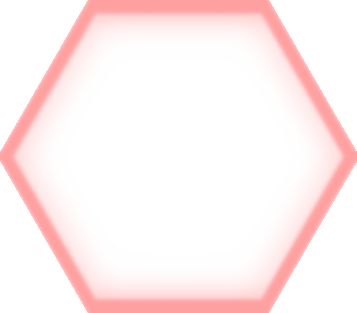
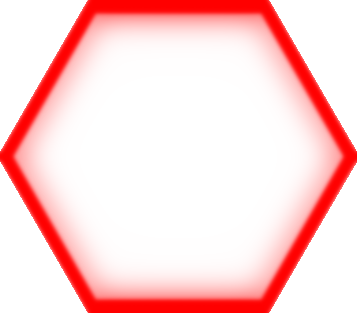
Enemy unit selection improvements.

Changed region(s): [[0.0, 0.0, 1.0, 1.0]]

diff --git a/source/js/handle_input.js b/source/js/handle_input.js
@@ -8,13 +8,41 @@ function handleClick(event) {
         if(event.button == 0){
             
             if(u && u.id){
-                selectedUnitId = u ? ((selectedUnitId == u.id && gameState.terminalTab == 'unit') ? (setTerminalPage('log'), null) : u.id) : null;
-                setTerminalPage('unit');
+                if(selectedUnitId == u.id && gameState.terminalTab == 'unit' && lastSelectedEnemy == null){
+                    setTerminalPage('log');
+                    selectedUnitId = null;
+                }else{
+                    if(((u.faction == "nazis" && gameState.activePlayer == "nazis") || (gameState.activePlayer != "nazis" && u.faction != "nazis"))){
+                        selectedUnitId = u.id;
+                        lastSelectedEnemy = null;
+
+                        setTerminalPage('unit');
+                    }else{
+                        if(selectedEnemyUnitsIds[u.id] == "SELECTED"){
+                            if(lastSelectedEnemy == u.id){
+                                selectedEnemyUnitsIds[u.id] = null;
+                                if(selectedUnitId == null) setTerminalPage('log');
+                                lastSelectedEnemy = null;
+                            }else{
+                                selectedEnemyUnitsIds[u.id] = "SELECTED";
+                                lastSelectedEnemy = u.id;
+
+                                setTerminalPage('unit');
+                            }
+                        }else{
+                                selectedEnemyUnitsIds[u.id] = "SELECTED";
+                                lastSelectedEnemy = u.id;
+                                
+                                setTerminalPage('unit');
+                        }
+                    }
+                }
             }else{
                 selectedUnitId = null; 
                 setTerminalPage('log');
             }
 
+            updateUnits();
             clearPathVizualizers();
         }else if(event.button == 2){
 

diff --git a/source/js/board.js b/source/js/board.js
@@ -222,14 +222,14 @@ function moveMap() {
     let sel_u_pos = !selectedUnitId ? [0,0] : getHexCenterPos(gameState.units[selectedUnitId].row, gameState.units[selectedUnitId].col);
     let sel_pos = getHexCenterPos(selectedRow, selectedColumn);
 
-    debug_hex.style.left = camX - boardWidth * zoom / 2 + sel_pos[0] - hexRadius * zoom + "px";
-    debug_hex.style.top = camY - boardHeight * zoom / 2 + sel_pos[1] - hexHeight * zoom + "px";
+    debug_hex.style.left = sel_pos[0] - hexRadius * zoom + "px";
+    debug_hex.style.top = sel_pos[1] - hexHeight * zoom + "px";
 
-    debug_uhex.style.left = camX - boardWidth * zoom / 2 + sel_u_pos[0] - hexRadius * zoom + "px";
-    debug_uhex.style.top = camY - boardHeight * zoom / 2 + sel_u_pos[1] - hexHeight * zoom + "px";
+    debug_uhex.style.left = sel_u_pos[0] - hexRadius * zoom + "px";
+    debug_uhex.style.top = sel_u_pos[1] - hexHeight * zoom + "px";
 
-    cell_dis.style.left = camX - boardWidth * zoom / 2 + pos[0] - hexRadius * zoom + "px";
-    cell_dis.style.top = camY - boardHeight * zoom / 2 + pos[1] - hexHeight * zoom + "px";
+    cell_dis.style.left = pos[0] - hexRadius * zoom + "px";
+    cell_dis.style.top = pos[1] - hexHeight * zoom + "px";
 
     deb_hex.innerHTML = padLeft(board_col + 1, 2) + padLeft(board_row, 2)
         + "<br>" + board_row + " " + board_col
@@ -256,6 +256,8 @@ function moveMap() {
 
 
     let selUnit = selectedUnitId == null ? (isMouseInBoard() ? unitAt(board_row, board_col) : null) : gameState.units[selectedUnitId];
+
+    if(lastSelectedEnemy != null) selUnit = gameState.units[lastSelectedEnemy];
 
     if(selUnit == null){
         $("#tab_unit_available").hide();

diff --git a/source/js/debug_map.js b/source/js/debug_map.js
@@ -222,11 +222,17 @@ function updateUnits(){
         transition: `transform ${6 * unitSpeedModifier}s ease-in-out`
         });
 
+        $("#unit_" + id + "_outline").attr("src", `assets/cell/${selectedEnemyUnitsIds[id] == "SELECTED" ? "selection_red" : "outline_white"}.png`);
         $("#unit_" + id).css(u_css);
         $("#unit_" + id).attr("src", `assets/cell/${u.faction}/${u.faction}_${u.used ? "active" : (u.disrupted ? "reduced" : "standard")}.png`);
         $("#unit_" + id + "_outline").css(u_css);
         $("#unit_" + id + "_hull").css(off_u_css);
         $("#unit_" + id + "_turret").css(off_u_css);
+        if(selectedUnitId == id){
+            $("#unit_" + id + "_outline").hide();
+        }else{
+            $("#unit_" + id + "_outline").show();
+        }
     }
 }
 

diff --git a/index.html b/index.html
@@ -172,10 +172,10 @@
             <div id="board_highways"></div>
             <div id="board_rivers"></div>
             <div id="board_paths"></div>
+            <img src="assets/cell/selection_white.png" id="debug_hex_dis">
+            <img src="assets/cell/selection_white.png" id="debug_unithex_dis">
+            <img src="assets/cell/selection_white.png" id="cell_display">
         </div>
-        <img src="assets/cell/selection_white.png" id="debug_hex_dis">
-        <img src="assets/cell/selection_white.png" id="debug_unithex_dis">
-        <img src="assets/cell/selection_white.png" id="cell_display">
     </div>
 
     <div id="game_terminal">

diff --git a/source/js/game_logic.js b/source/js/game_logic.js
@@ -237,6 +237,8 @@ $(document).ready(function () {
     if (animatedU == 0) {
       clearLogs();
       selectedUnitId = null;
+      selectedEnemyUnitsIds = {};
+      lastSelectedEnemy = null;
       selectedRow = null;
       selectedColumn = null;
       clearPathVizualizers();
@@ -251,6 +253,7 @@ $(document).ready(function () {
       updateTurnDisplays();
 
       // $("body").css({ "background-color": gameState.activePlayer == "nazis" ? "#a6acbdff" : "#77ab79ff" });
+      setTerminalPage('log');
     }else{
       sendLog(`Cannot proceed to next phase during unit movement.`);
     }

diff --git a/source/js/game_variables.js b/source/js/game_variables.js
@@ -56,6 +56,8 @@ var mouseDown = false;
 var selectedRow = null;
 var selectedColumn = null;
 var selectedUnitId = null;
+var selectedEnemyUnitsIds = {};
+var lastSelectedEnemy = null;
 
 const CRT = {
   '4': { 0: '2A', 1: '2A', 2: 'RD', 3: '1A', 4: 'RD', 5: 'RD', 6: 'RD', 7: '1A', 8: '1A', 9: '-' },
